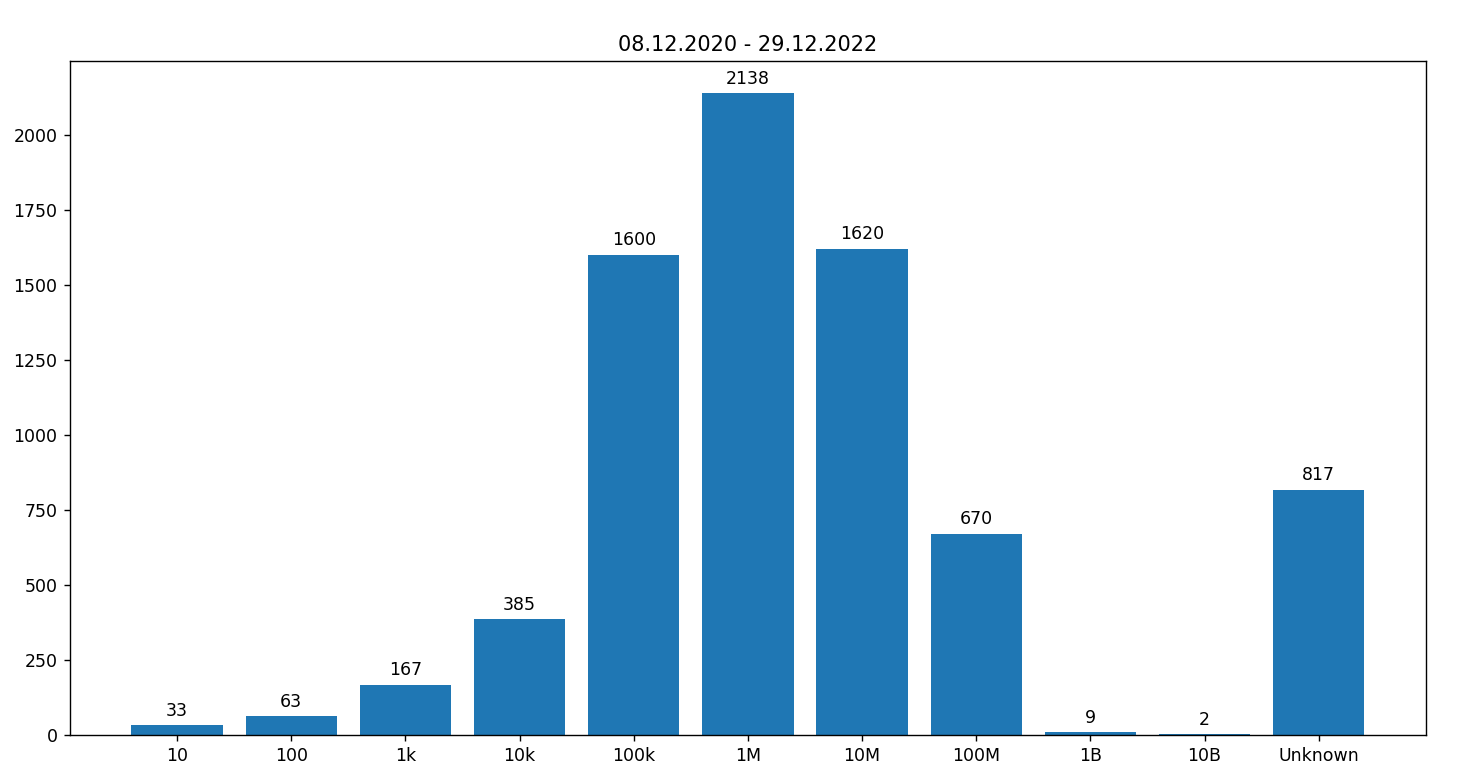
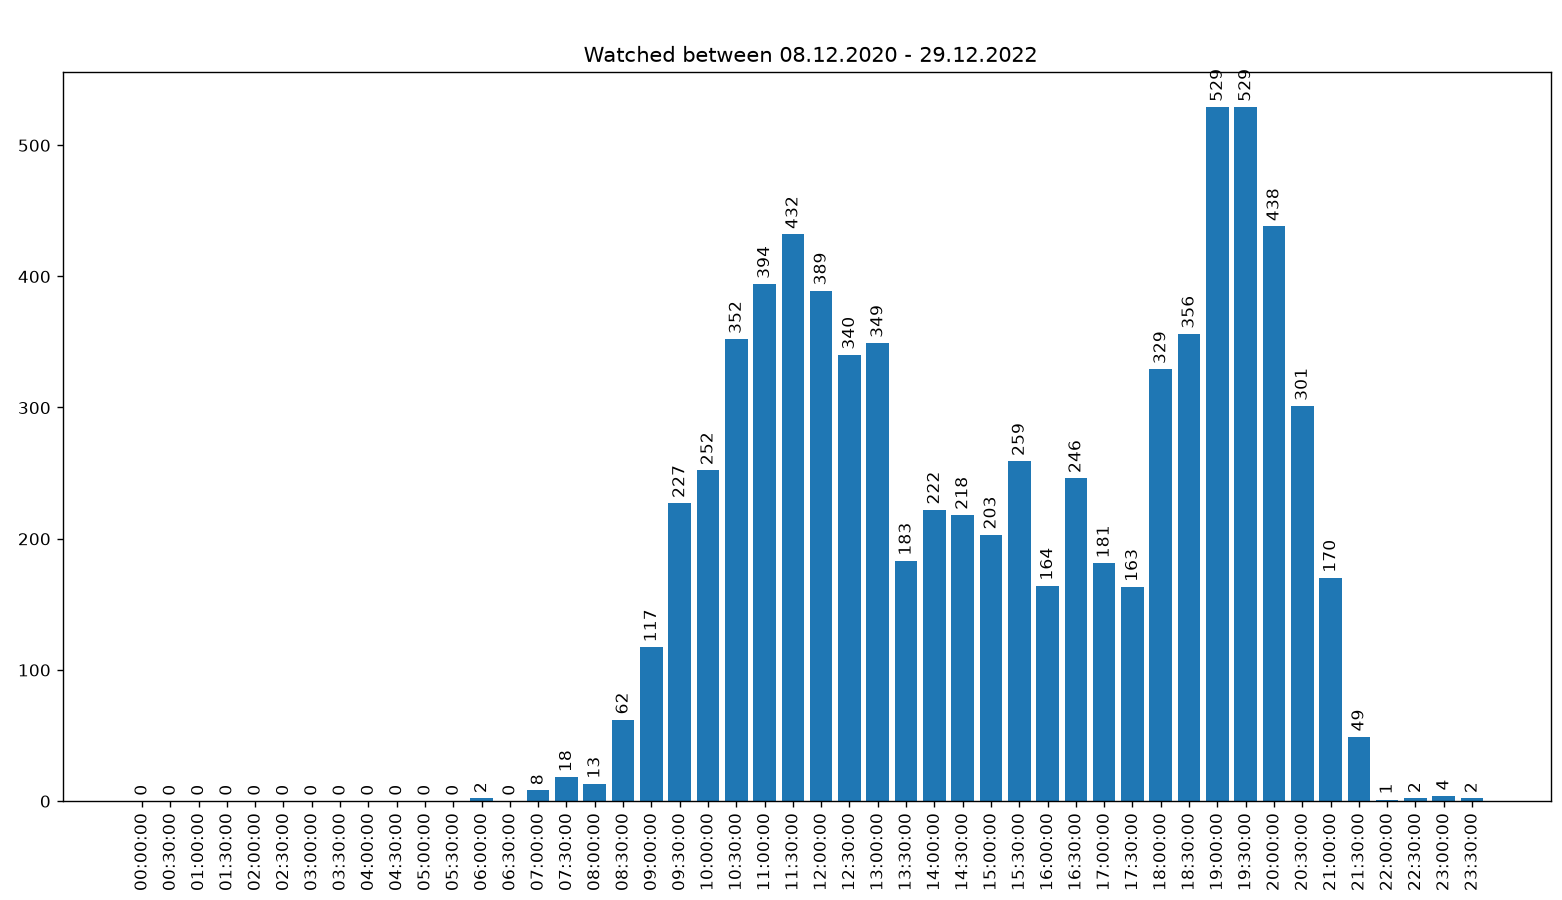
Update images

Changed region(s): [[0.0, 0.0308, 1.0, 1.0]]

diff --git a/README.md b/README.md
@@ -35,13 +35,14 @@ If you find any bugs or have any suggestions or feature requests, please create 
 <img width="40%" alt="Property filters" src="https://github.com/leonhardw/YouTube-History-Visualizer/blob/main/images/filters2.png" /> <img width="40%" alt="Watched filters" src="https://github.com/leonhardw/YouTube-History-Visualizer/blob/main/images/filters3.png" /> <img width="40%" alt="Uploaded filters" src="https://github.com/leonhardw/YouTube-History-Visualizer/blob/main/images/filters4.png" />
 
 ### Possible plots
-<img width="40%" alt="Watched filters" src="https://github.com/leonhardw/YouTube-History-Visualizer/blob/main/images/plots.png" />
+<img width="40%" alt="Watched filters" src="https://github.com/leonhardw/YouTube-History-Visualizer/blob/main/images/all_plots.png" />
 
 ### Example plots
 Time of day  
-<img alt="Watched filters" src="https://github.com/leonhardw/YouTube-History-Visualizer/blob/main/images/plot.png" />
-Views  
 <img alt="Watched filters" src="https://github.com/leonhardw/YouTube-History-Visualizer/blob/main/images/plot2.png" />
+
+Total views  
+<img alt="Watched filters" src="https://github.com/leonhardw/YouTube-History-Visualizer/blob/main/images/plot.png" />
 
 </details>
 
